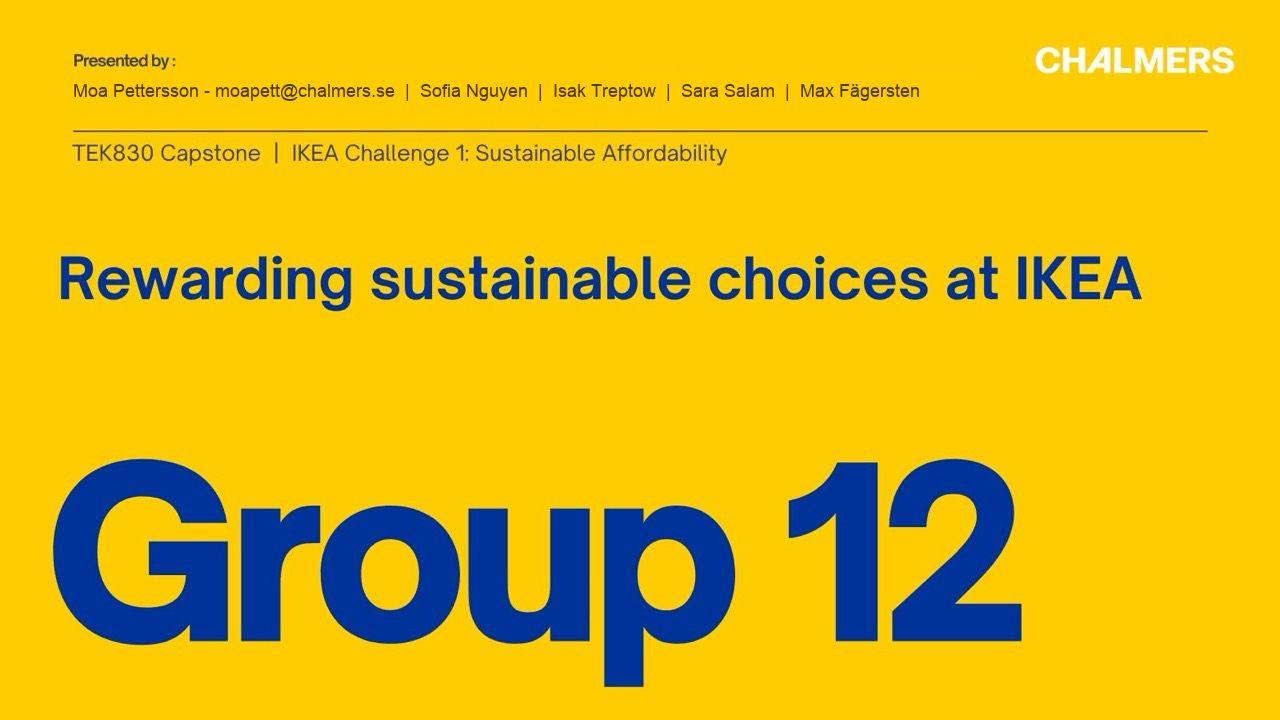
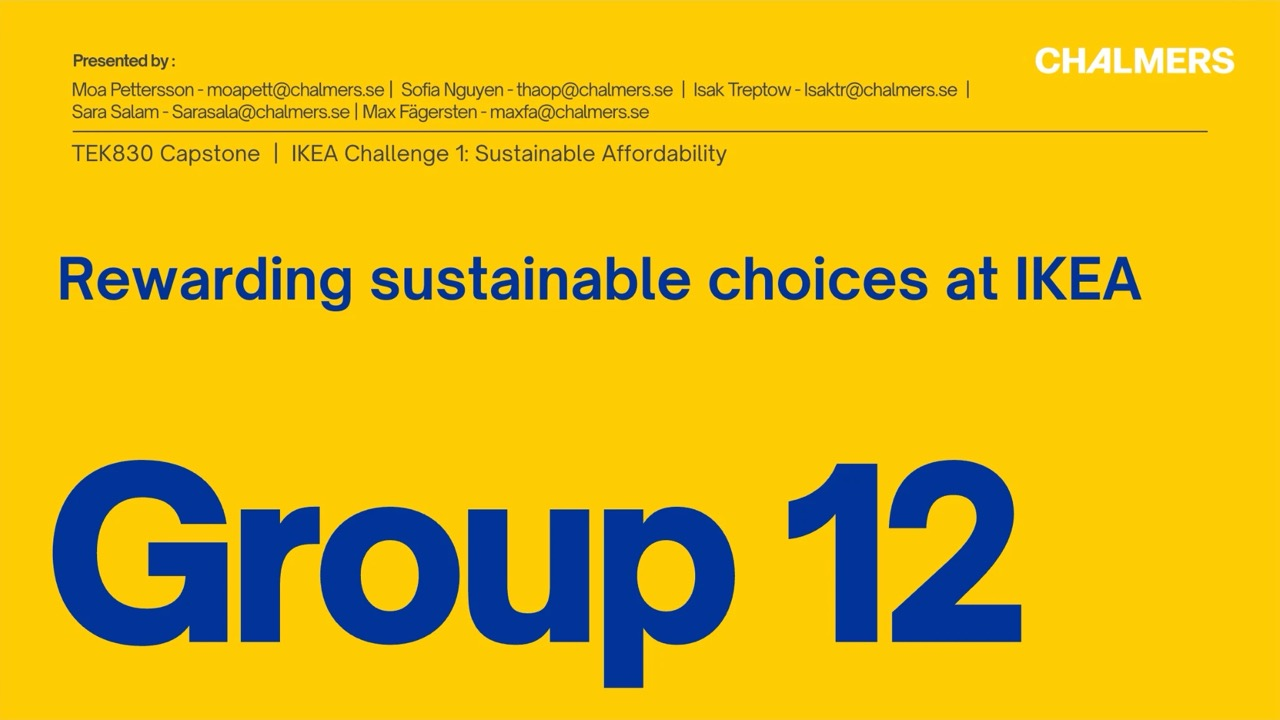
feat: list all team emails and restore original slide 1

diff --git a/src/features/site/SitePage.tsx b/src/features/site/SitePage.tsx
@@ -7,7 +7,7 @@ import { ScrollManager } from '../../components/DemoLayout';
 import { Footer } from '../../components/Footer';
 import { TierBadge } from '../../components/TierBadge';
 import { Wordmark } from '../../components/Wordmark';
-import { CONTACT_EMAIL, DEMO_VIDEO_EMBED_URL, PITCH_VIDEO_EMBED_URL } from '../../config';
+import { DEMO_VIDEO_EMBED_URL, PITCH_VIDEO_EMBED_URL, TEAM_CONTACTS } from '../../config';
 import { defaultModel, products } from '../../data';
 import { buildCatalogue } from '../../lib/cashback';
 import { formatPct, formatSek } from '../../lib/format';
@@ -644,9 +644,15 @@ export function SitePage() {
 
         {/* 11. Contact */}
         <Section id="contact" title="Contact" grey>
+          <ul role="list" className={styles.contacts}>
+            {TEAM_CONTACTS.map(({ name, email }) => (
+              <li key={email}>
+                {name} · <a href={`mailto:${email}`}>{email}</a>
+              </li>
+            ))}
+          </ul>
           <p className={styles.prose}>
-            <a href={`mailto:${CONTACT_EMAIL}`}>{CONTACT_EMAIL}</a> ·{' '}
-            <Link to="/demo">Prototype</Link>
+            <Link to="/demo">Try the prototype</Link>
           </p>
         </Section>
       </main>

diff --git a/src/features/site/pitchSlides.ts b/src/features/site/pitchSlides.ts
@@ -1,10 +1,10 @@
 import type { Slide } from '../../components/Carousel';
 
 // Exported from the team's Canva deck "First Pitch_Team12". In the website copies, the IKEA logo
-// (slide 4) and the other members' email addresses (slide 1) are covered.
+// on slide 4 is covered.
 export const PITCH_SLIDES: Slide[] = [
   {
-    alt: 'Group 12: Rewarding sustainable choices at IKEA. TEK830 Capstone, IKEA Challenge 1: Sustainable Affordability. Presented by Moa Pettersson, Sofia Nguyen, Isak Treptow, Sara Salam and Max Fägersten.',
+    alt: 'Group 12: Rewarding sustainable choices at IKEA. TEK830 Capstone, IKEA Challenge 1: Sustainable Affordability. Presented by Moa Pettersson (moapett@chalmers.se), Sofia Nguyen (thaop@chalmers.se), Isak Treptow (isaktr@chalmers.se), Sara Salam (sarasala@chalmers.se) and Max Fägersten (maxfa@chalmers.se).',
   },
   { alt: 'Maria, a mother, with her two children.' },
   {

diff --git a/src/config.ts b/src/config.ts
@@ -9,6 +9,13 @@ export const PITCH_VIDEO_EMBED_URL = '';
 /** Prototype walkthrough video (YouTube embed URL). Empty until it is recorded. */
 export const DEMO_VIDEO_EMBED_URL = '';
 
-export const CONTACT_EMAIL = 'moapett@chalmers.se';
+/** Team contacts for the contact section, the same as on slide 1 of the pitch. */
+export const TEAM_CONTACTS = [
+  { name: 'Moa Pettersson', email: 'moapett@chalmers.se' },
+  { name: 'Sofia Nguyen', email: 'thaop@chalmers.se' },
+  { name: 'Isak Treptow', email: 'isaktr@chalmers.se' },
+  { name: 'Sara Salam', email: 'sarasala@chalmers.se' },
+  { name: 'Max Fägersten', email: 'maxfa@chalmers.se' },
+];
 
 export const REPO_URL = 'https://github.com/Moapettersson/IKEA_ReWard';

diff --git a/src/features/site/SitePage.module.css b/src/features/site/SitePage.module.css
@@ -600,6 +600,14 @@ img.avatar {
   border-color: var(--c-red);
 }
 
+.contacts {
+  display: grid;
+  gap: var(--s-2);
+  margin-bottom: var(--s-5);
+  font: var(--t-body-l);
+  overflow-wrap: anywhere;
+}
+
 .references {
   display: grid;
   gap: var(--s-3);

diff --git a/docs/SPEC.md b/docs/SPEC.md
@@ -180,11 +180,11 @@ Single long page with anchor navigation, sections in this order. Copy in English
 8. **Team:** 5 members (Moa Pettersson, Sofia Nguyen, Isak Treptow, Sara Salam, Max Fägersten): photo and name only. Missing photos show a grey square with initials. Below the team, a black band with the white Chalmers logo (`public/images/site/chalmers-logo-white.svg`, taken from the chalmers.se header) and the course title "TEK830 Sustainable digitalization in practice", both required by the course. The Chalmers logo is the only third-party logo on the site.
 9. **References:** numbered list of sources.
 10. **Use of generative AI:** one short paragraph: Claude helped with code, brainstorming and correcting text; the team reviewed everything. Required by the course.
-11. **Contact:** moapett@chalmers.se + footer disclaimer.
+11. **Contact:** all five team members with their Chalmers email (`TEAM_CONTACTS` in `src/config.ts`) + a link to the prototype. The footer has no email; its "Contact" link goes to `/#contact`. Changed 2026-10-08: the team decided all emails are public.
 
 Removed on 2026-10-01 to keep the focus: separate Features, Sustainability impact, Real vs simulated, Process and Next steps sections. Sustainability now lives in "Does it hold up?", and "simulated" is stated in the prototype section, the demo utility bar and the footer.
 
-**Pitch slides:** exported from the Canva deck "First Pitch_Team12" to `public/images/pitch/slide-01.jpg` … `slide-14.jpg` (1280×720, under 150 kB each). In the website copies the IKEA logo on slide 4 is covered (branding rule) and the other members' emails on slide 1 are removed (only moapett@chalmers.se is published). Alt text per slide lives in `src/features/site/pitchSlides.ts`. Re-export and redo both edits if the deck changes.
+**Pitch slides:** exported from the Canva deck "First Pitch_Team12" to `public/images/pitch/slide-01.jpg` … `slide-14.jpg` (1280×720, under 150 kB each). In the website copies the IKEA logo on slide 4 is covered (branding rule). Slide 1 shows all five team emails, as in the deck. Alt text per slide lives in `src/features/site/pitchSlides.ts`. Re-export and redo the slide 4 edit if the deck changes.
 
 Content comes from the team's worksheet and pitch script. Nothing is invented: claims we cannot back up are marked TODO in the source until the team confirms them.
 
@@ -339,4 +339,4 @@ Create one GitHub issue per screen/component with the acceptance criteria copied
 3. Team photos.
 4. Google Form URL for the feedback link.
 
-Resolved on 2026-09-30: product images are flat SVG silhouettes; contact is moapett@chalmers.se; there is a feedback link in the demo.
+Resolved on 2026-09-30: product images are flat SVG silhouettes; contact is the whole team's Chalmers emails (updated 2026-10-08); there is a feedback link in the demo.
